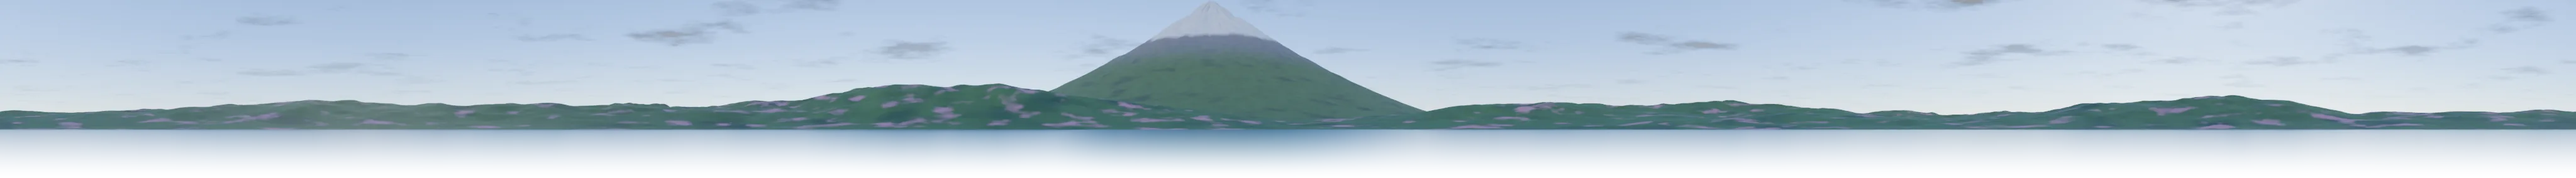
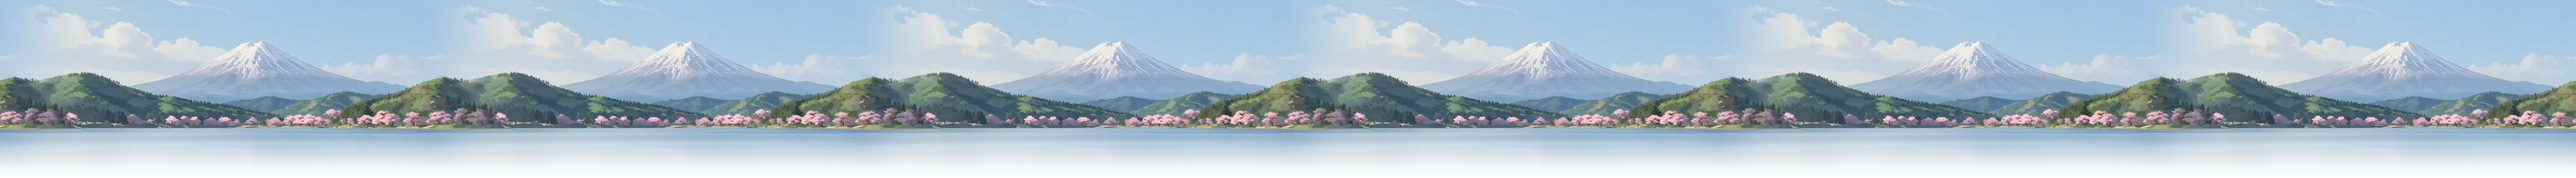
Lago de los cerezos pintado con el estilo de los héroes (0.105.2) (#121)
* Fiordo pintado con el estilo de los héroes, con suelo y agua pintados en 3D (0.98.0)

Claude-Session: https://claude.ai/code/session_01YU6HPKNqDAini2Aa6w3kXk

* Laguna tropical pintada con el estilo de los héroes, con arena y agua pintadas en 3D (0.100.0)

Claude-Session: https://claude.ai/code/session_01YU6HPKNqDAini2Aa6w3kXk

* Prueba de temporizador frenado: esperar a que la sesión de los 20 s esté guardada

La escritura de la sesión en curso es asíncrona; con el CI cargado, la de los 20 s llegaba
después de leerla y la prueba comparaba contra la copia de los 10 s.

Claude-Session: https://claude.ai/code/session_01YU6HPKNqDAini2Aa6w3kXk

* Vista aérea 2D con más paisaje: orillas anchas en vertical, agua pintada del fiordo (0.100.1)

Claude-Session: https://claude.ai/code/session_01YU6HPKNqDAini2Aa6w3kXk

* Vista previa de paisajes y piezas del bote en la tienda

Claude-Session: https://claude.ai/code/session_01YU6HPKNqDAini2Aa6w3kXk

* Icono de vista previa sin fondo

Claude-Session: https://claude.ai/code/session_01YU6HPKNqDAini2Aa6w3kXk

* Vista previa en un módulo que se carga al tocarla: la primera carga vuelve a quedar bajo 380 KB de JS

Claude-Session: https://claude.ai/code/session_01YU6HPKNqDAini2Aa6w3kXk

* Cañón del desierto pintado con el estilo de los héroes, con tierra roja y agua pintadas

Claude-Session: https://claude.ai/code/session_01YU6HPKNqDAini2Aa6w3kXk

* Herramientas: procesar.py (clave magenta por croma) y puntos del cañón
[…]

diff --git a/src/carrera.js b/src/carrera.js
@@ -199,6 +199,7 @@ Object.assign(PAISAJES, {
     nombre: 'Lago de los cerezos',
     texto: 'Cerezos en flor, toriis rojos y un volcán nevado al fondo.',
     precio: 1500,
+    pintado: true,
     orilla: {
       piezas: {
         cerezo: { x: 0, y: 0, w: 590, h: 550, pie: [0.5, 0.988], m: 8.6 },

diff --git a/src/version.js b/src/version.js
@@ -1,2 +1,2 @@
 // Versión de la app: la misma que la caché del service worker (sw.js). Súbela al publicar cambios.
-export const VERSION = '0.105.1';
+export const VERSION = '0.105.2';

diff --git a/tools/paisaje-pintado/procesar.py b/tools/paisaje-pintado/procesar.py
@@ -40,7 +40,10 @@ c0=Image.open(R+f'assets/carrera/{k}_costa.webp'); cw,ch=c0.size
 c=np.asarray(Image.open(G+f'{k}_costa.png').convert('RGB'))[:ORI].astype(np.float32)
 ci=Image.fromarray(sin_costura_h(c,120).astype(np.uint8)); ci.resize((1536,round(ci.height*1536/ci.width)),Image.LANCZOS).save(O+f'{k}_costa.webp',quality=80)
 # piezas
-def objetos(path):
+RGBA={}
+# Hojas cuyo fondo se parece a las piezas (cerezos rosas sobre fondo rosa): el fondo se toma por relleno desde el borde.
+RELLENO={('cerezos','A')}
+def objetos(path, hoja=''):
   im=np.asarray(Image.open(path).convert('RGB')).astype(np.float32)
   bg=np.median(np.concatenate([im[:8].reshape(-1,3),im[-8:].reshape(-1,3),im[:,:8].reshape(-1,3),im[:,-8:].reshape(-1,3)]),axis=0)
   d=np.sqrt(((im-bg)**2).sum(-1)); alpha=np.clip((d-60)/50,0,1)
@@ -48,13 +51,22 @@ def objetos(path):
     # Fondo magenta: se mide por lo «magenta» (min(R,B) − G), no por la distancia al color. Así las rocas rojas
     # y el adobe rosado no se toman por fondo (antes salían transparentes a medias y verdosos).
     M=np.minimum(im[...,0],im[...,2])-im[...,1]; bM=min(bg[0],bg[2])-bg[1]
-    alpha=np.clip((0.6*bM-M)/(0.5*bM),0,1)
+    alpha=np.maximum(np.clip((0.6*bM-M)/(0.5*bM),0,1),np.clip((d-100)/40,0,1))  # lo claro (flores) se aleja del fondo aunque sea rosa
+  if (k,hoja) in RELLENO:
+    u8=im.astype(np.uint8).copy(); hh,ww=u8.shape[:2]; fondo=np.zeros((hh+2,ww+2),np.uint8)
+    for sx,sy in [(0,0),(ww-1,0),(0,hh-1),(ww-1,hh-1),(ww//2,0),(ww//2,hh-1),(0,hh//2),(ww-1,hh//2)]:
+      cv2.floodFill(u8,fondo,(sx,sy),0,(28,28,28),(28,28,28),cv2.FLOODFILL_MASK_ONLY|cv2.FLOODFILL_FIXED_RANGE|(1<<8)|8)
+    fondo=fondo[1:-1,1:-1].astype(bool)
+    # Lo claro (flores) se queda; lo oscuro que tira a rosa (borde de pinos) se recorta por croma.
+    da=np.clip((d-25)/30,0,1); lum=im.mean(-1)
+    alpha=np.where(fondo,0.0,np.where(lum>140,da,np.minimum(da,alpha)))
+    alpha=cv2.GaussianBlur(alpha.astype(np.float32),(3,3),0)
   alpha=np.minimum(alpha,cv2.erode(alpha.astype(np.float32),np.ones((3,3),np.uint8)))
   a3=np.clip(alpha,0.05,1)[...,None]
   sp=np.where(alpha[...,None]<1,(im-(1-a3)*bg)/a3,im)
   ex=np.clip(np.minimum(sp[...,0],sp[...,2])-sp[...,1],0,None)
   if bg[0]>bg[1] and bg[2]>bg[1]: sp[...,0]-=ex; sp[...,2]-=ex
-  rgba=np.dstack([sp.clip(0,255),alpha*255]).astype(np.uint8)
+  rgba=np.dstack([sp.clip(0,255),alpha*255]).astype(np.uint8); RGBA[hoja]=rgba
   mask=(alpha>0.08).astype(np.uint8)
   mask=cv2.dilate(mask,np.ones((9,9),np.uint8))
   n,lab,st,cen=cv2.connectedComponentsWithStats(mask,8)
@@ -67,12 +79,16 @@ def objetos(path):
     if len(ys)==0: continue
     objs.append((x+w/2,y+h/2,Image.fromarray(cr[ys.min():ys.max()+1, xs.min():xs.max()+1],'RGBA')))
   return objs
-L={'A':objetos(G+f'{k}_piezasA.png'),'B':objetos(G+f'{k}_piezasB.png')}
+L={'A':objetos(G+f'{k}_piezasA.png','A'),'B':objetos(G+f'{k}_piezasB.png','B')}
 ini=src.index(f"  {k}: "); j=src.index('piezas: {',ini); e=src.index('}\n      },',j)
 pz={m.group(1):tuple(float(v) for v in m.group(2,3,4,5,6,7)) for m in re.finditer(r"(\w+): \{ x: (\d+), y: (\d+), w: (\d+), h: (\d+), pie: \[([\d.]+), ([\d.]+)\]",src[j:e])}
 a0=Image.open(R+f'assets/carrera/{k}_orilla.webp'); at=Image.new('RGBA',a0.size,(0,0,0,0))
 for nombre,(x,y,W,H,px,py) in pz.items():
-  hoja,px0,py0=PUNTOS[nombre]; ob=min(L[hoja],key=lambda o:(o[0]-px0)**2+(o[1]-py0)**2)[2]
+  hoja,px0,py0=PUNTOS[nombre][:3]
+  if len(PUNTOS[nombre])==7:  # recorte a mano: piezas que se tocan en la hoja (bambú y linterna)
+    x0,y0,x1,y1=PUNTOS[nombre][3:]; cr=RGBA[hoja][y0:y1,x0:x1]; ys,xs=np.where(cr[...,3]>40)
+    ob=Image.fromarray(cr[ys.min():ys.max()+1, xs.min():xs.max()+1],'RGBA')
+  else: ob=min(L[hoja],key=lambda o:(o[0]-px0)**2+(o[1]-py0)**2)[2]
   s1=min(W/ob.width,H*py/ob.height)
   if W/ob.width < H*py/ob.height:  # limitado por el ancho: aplastar un poco para ganar alto
     sq=max(0.72,(W/ob.width)/(H*py/ob.height)); ob=ob.resize((max(1,int(ob.width*sq)),ob.height)); s1=min(W/ob.width,H*py/ob.height)

diff --git a/CHANGELOG.md b/CHANGELOG.md
@@ -2,6 +2,14 @@
 
 Lo que cambia en cada versión de Rower. La versión de la app vive en `src/version.js`; esta lista empieza siempre por esa versión (lo comprueba `pruebas/version.test.mjs`).
 
+## 0.105.2 · 2026-11-23
+
+El Lago de los cerezos, repintado con el estilo de los héroes.
+
+- **Cerezos pintados.** Volcán nevado, colinas y cerezos en flor junto al lago; cerezos, pino japonés, bambú, torii, linterna de piedra, rocas e iris pintados con el mismo motor y la misma mano que los retratos.
+- **Pasto con pétalos y agua azul pintados en la vista 3D**, con bruma lejana; también hay agua pintada en el canal de la vista 2D y una costa 2D con cerezos y torii.
+- Miniatura nueva en la tienda.
+
 ## 0.105.1 · 2026-11-23
 
 El Lago de otoño, repintado con el estilo de los héroes.
